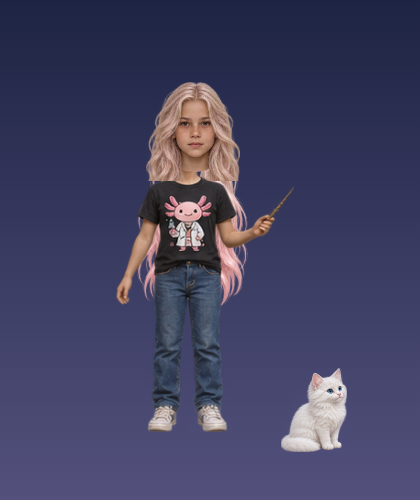
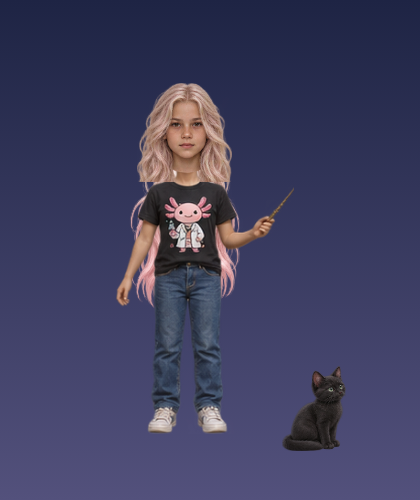
Align custom wizard heads to necklines and publish the new homepage cover

diff --git a/tests/wizard-custom.test.js b/tests/wizard-custom.test.js
@@ -1,3 +1,4 @@
+import{CUSTOM_WIZARD_NECKS}from'../src/wizard-custom-necks.js';
 import test from 'node:test';
 import assert from 'node:assert/strict';
 import{CUSTOM_HAIRS,CUSTOM_OUTFITS,validateCustomWizard,loadCustomWizard,saveCustomWizard,drawCustomWizard}from'../src/wizard-custom.js';
@@ -9,8 +10,8 @@ test('custom kid and adult appearances save separately, reject invalid options, 
  const map=new Map(),storage={getItem:k=>map.get(k),setItem:(k,v)=>map.set(k,v)};const a={age:'kid',hair:12,outfit:3},b={age:'adult',hair:1,outfit:5};saveCustomWizard(a,0,storage);saveCustomWizard(b,1,storage);assert.deepEqual(loadCustomWizard(0,storage),a);assert.deepEqual(loadCustomWizard(1,storage),b);assert.deepEqual(validateCustomWizard({age:'bad',hair:30,outfit:-1}),{age:'adult',hair:9,outfit:0});map.set('sidequest.wizard.custom.0','bad json');assert.equal(loadCustomWizard(0,storage).age,'adult');assert.equal(saveStormWizard('custom',storage),'custom');assert.equal(loadStormWizard(storage),'custom');assert.equal(stormWizard('custom').name,'Your custom wizard');const m=createWizardMatch({wizard:'custom',customWizard:a,rivalCustomWizard:b});a.hair=0;assert.equal(m.players[0].customWizard.hair,12);assert.equal(m.players[1].customWizard.age,'adult');
 });
 test('all 256 age, hairstyle and outfit combinations draw their real matched portrait and clothing assets',t=>{
- const old=globalThis.Image;t.after(()=>globalThis.Image=old);globalThis.Image=class{complete=true;naturalWidth=1260;naturalHeight=1260;};const draws=[],c=new Proxy({drawImage:(...args)=>draws.push(args)},{get:(o,k)=>o[k]||(()=>{}),set:(o,k,v)=>(o[k]=v,true)});assert.equal(CUSTOM_HAIRS.length,16);assert.equal(CUSTOM_OUTFITS.length,8);
- for(const age of['kid','adult'])for(let hair=0;hair<16;hair++)for(let outfit=0;outfit<8;outfit++){draws.length=0;assert.equal(drawCustomWizard(c,{age,hair,outfit},200,400,1),true);const body=draws.find(a=>a[0].src.endsWith('outfits.png')),head=draws.at(-1),bound=CUSTOM_WIZARD_BOUNDS.outfits[outfit+(age==='kid'?8:0)];assert.equal(body[1],bound.x);assert.equal(body[2],bound.y);assert.ok(head[0].src.endsWith(age+'-heads.png'));assert.ok(draws.every(a=>a.slice(1).every(Number.isFinite)));assert.ok(head[6]<body[6]+20);}
+ const old=globalThis.Image;t.after(()=>globalThis.Image=old);globalThis.Image=class{complete=true;set src(value){this.url=value;const kind=value.match(/wizard-custom-(.+)\.png/)[1];[this.naturalWidth,this.naturalHeight]=({'outfits':[1247,1261],'adult-heads':[1244,1264],'kid-heads':[1261,1247],'hair-back':[1536,1024]})[kind];}get src(){return this.url;}};const draws=[],c=new Proxy({drawImage:(...args)=>draws.push(args)},{get:(o,k)=>o[k]||(()=>{}),set:(o,k,v)=>(o[k]=v,true)});assert.equal(CUSTOM_HAIRS.length,16);assert.equal(CUSTOM_OUTFITS.length,8);
+ for(const age of['kid','adult'])for(let hair=0;hair<16;hair++)for(let outfit=0;outfit<8;outfit++){draws.length=0;assert.equal(drawCustomWizard(c,{age,hair,outfit},200,400,1),true);const body=draws.find(a=>a[0].src.endsWith('outfits.png')),head=draws.at(-1),bound=CUSTOM_WIZARD_BOUNDS.outfits[outfit+(age==='kid'?8:0)];assert.equal(body[1],bound.x);assert.equal(body[2],bound.y);assert.ok(head[0].src.endsWith(age+'-heads.png'));assert.ok(draws.every(a=>a.slice(1).every(Number.isFinite)));assert.ok(head[6]<body[6]+20);const neck=CUSTOM_WIZARD_NECKS.outfits[outfit+(age==='kid'?8:0)],faceNeck=CUSTOM_WIZARD_NECKS[age+'-heads'][hair];const bodyX=body[5]+(neck.x-body[1])*body[7]/body[3],headX=head[5]+(faceNeck.x-head[1])*head[7]/head[3],bodyY=body[6]+(neck.y+3-body[2])*body[8]/body[4],headY=head[6]+(faceNeck.y-head[2])*head[8]/head[4];assert.ok(Math.abs(headX-bodyX)<1e-8,age+' hair '+hair+' outfit '+outfit+' neck center');assert.ok(Math.abs(headY-bodyY)<1e-8,age+' hair '+hair+' outfit '+outfit+' neck height');}
 });
 test('editing during a paused round preserves the match and resumes only after visible 3 2 1',t=>{
  const names=['document','window','requestAnimationFrame','cancelAnimationFrame','localStorage'],old=Object.fromEntries(names.map(k=>[k,globalThis[k]]));t.after(()=>{engine.destroy();Object.assign(globalThis,old);});const countdowns=[];const ctx=new Proxy({createLinearGradient:()=>({addColorStop(){}}),fillText:v=>{if(['3','2','1'].includes(v))countdowns.push(v);}},{get:(o,k)=>o[k]||(()=>{}),set:(o,k,v)=>(o[k]=v,true)});

diff --git a/src/wizard-custom.js b/src/wizard-custom.js
@@ -1,3 +1,4 @@
+import {CUSTOM_WIZARD_NECKS} from './wizard-custom-necks.js';
 import {CUSTOM_WIZARD_BOUNDS} from './wizard-custom-bounds.js';
 export const CUSTOM_HAIRS=['Chestnut sweep','Blonde quiff','Brown fringe','Textured quiff','Blonde side part','Dark side sweep','Black crop','Tall quiff','Ash brown sweep','Long black waves','Side braid','Black bob','Long pink waves','Auburn waves','Silver hair','Dark curls'];
 export const CUSTOM_OUTFITS=['Silver dragon gown','Butterfly sequin gown','Emerald leaf gown','Blue celestial gown','Ivory forest gown','Chemistry shirt & jeans','Axolotl scientist shirt','Frog scientist shirt'];
@@ -8,11 +9,14 @@ const atlases=new Map();
 export function customWizardAtlas(kind){if(typeof Image==='undefined')return null;if(!atlases.has(kind)){const image=new Image();image.src=new URL('../assets/wizard-custom-'+kind+'.png',import.meta.url).href;atlases.set(kind,image);}return atlases.get(kind);}
 export function drawCustomWizard(c,value,x,baseline,time=0,{height=190,reduced=false}={}){
  const look=validateCustomWizard(value),body=customWizardAtlas('outfits'),head=customWizardAtlas(look.age+'-heads');if(!body?.complete||!body.naturalWidth||!head?.complete||!head.naturalWidth)return false;
- const index=look.outfit+(look.age==='kid'?8:0),bw=body.naturalWidth/4,bh=body.naturalHeight/4,hw=head.naturalWidth/4,hh=head.naturalHeight/4,bodyHeight=height*(look.age==='kid'?.78:.84),bodyWidth=bodyHeight*bw/bh,headHeight=height*(look.age==='kid'?.27:.19),bodyBounds=CUSTOM_WIZARD_BOUNDS.outfits[index],neck=baseline-bodyHeight+(bodyBounds.y-Math.floor(index/4)*bh)/bh*bodyHeight;
+ const index=look.outfit+(look.age==='kid'?8:0),bw=body.naturalWidth/4,bh=body.naturalHeight/4,hw=head.naturalWidth/4,hh=head.naturalHeight/4,bodyHeight=height*(look.age==='kid'?.78:.84),bodyScale=bodyHeight/bh,bodyWidth=bw*bodyScale,headHeight=height*(look.age==='kid'?.27:.19),headScale=headHeight/hh;
+ const bodyNeck=CUSTOM_WIZARD_NECKS.outfits[index],headNeck=CUSTOM_WIZARD_NECKS[look.age+'-heads'][look.hair];
+ // Attach the actual portrait neck to the actual outfit neck, including tile offsets.
+ const neckX=-bodyWidth/2+(bodyNeck.x-index%4*bw)*bodyScale,neckY=-bodyHeight+(bodyNeck.y+3-Math.floor(index/4)*bh)*bodyScale;
+ const headX=neckX-(headNeck.x-look.hair%4*hw)*headScale,headY=neckY-(headNeck.y-Math.floor(look.hair/4)*hh)*headScale;
  c.save();c.translate(x,baseline+(reduced?0:Math.sin(time*2)*1.5));
- const backIndex=({9:0,10:1,12:2,13:3,14:4,15:5})[look.hair],back=backIndex===undefined?null:customWizardAtlas('hair-back');if(back?.complete&&back.naturalWidth){const sw=back.naturalWidth/3,sh=back.naturalHeight/2,w=height*.35,h=height*(look.hair===15?.39:.62);c.drawImage(back,backIndex%3*sw,Math.floor(backIndex/3)*sh,sw,sh,-w/2,neck-baseline-headHeight*.85,w,h);}
- const b=CUSTOM_WIZARD_BOUNDS.outfits[index];c.drawImage(body,b.x,b.y,b.w,b.h,-bodyWidth/2+(b.x-index%4*bw)/bw*bodyWidth,-bodyHeight+(b.y-Math.floor(index/4)*bh)/bh*bodyHeight,b.w/bw*bodyWidth,b.h/bh*bodyHeight);
- // Face and neck share the body's center and move together with the outfit.
- const face=CUSTOM_WIZARD_BOUNDS[look.age+'-heads'][look.hair];c.drawImage(head,face.x,face.y,face.w,face.h,-headHeight/2+(face.x-look.hair%4*hw)/hw*headHeight,neck-baseline-headHeight*.85+(face.y-Math.floor(look.hair/4)*hh)/hh*headHeight,face.w/hw*headHeight,face.h/hh*headHeight);
+ const backIndex=({9:0,10:1,12:2,13:3,14:4,15:5})[look.hair],back=backIndex===undefined?null:customWizardAtlas('hair-back');if(back?.complete&&back.naturalWidth){const sw=back.naturalWidth/3,sh=back.naturalHeight/2,w=height*.35,h=height*(look.hair===15?.39:.62);c.drawImage(back,backIndex%3*sw,Math.floor(backIndex/3)*sh,sw,sh,neckX-w/2,headY,w,h);}
+ const b=CUSTOM_WIZARD_BOUNDS.outfits[index];c.drawImage(body,b.x,b.y,b.w,b.h,-bodyWidth/2+(b.x-index%4*bw)*bodyScale,-bodyHeight+(b.y-Math.floor(index/4)*bh)*bodyScale,b.w*bodyScale,b.h*bodyScale);
+ const face=CUSTOM_WIZARD_BOUNDS[look.age+'-heads'][look.hair];c.drawImage(head,face.x,face.y,face.w,face.h,headX+(face.x-look.hair%4*hw)*headScale,headY+(face.y-Math.floor(look.hair/4)*hh)*headScale,face.w*headScale,face.h*headScale);
  c.restore();return true;
 }

diff --git a/previews/storm-stack.html b/previews/storm-stack.html
@@ -1,2 +1,2 @@
 <!doctype html>
-<html lang="en"><head><meta charset="utf-8"><meta name="viewport" content="width=device-width,initial-scale=1"><title>Wizard Tetris · Animated cover</title><style>body{margin:0;background:#eeebf5;color:#343956;font:16px system-ui}main{max-width:1000px;margin:30px auto;padding:20px}canvas{width:100%;height:auto;border-radius:24px;box-shadow:0 16px 50px #4b367633}h1{margin:20px 0 8px}p{line-height:1.6}a{color:#66508e}</style></head><body><main><canvas id="cover" width="960" height="650" aria-label="Animated Wizard Tetris cover: small wizards guide two island towers with golden magic"></canvas><h1>Wobbly towers. Wild magic.</h1><p>Pick your backdrop and a sidekick, then duel the computer or a friend on floating islands. Blocks rock, overhangs topple, and removing supports can bring down the tower. Your small wizard guides every piece in golden magic. Cross the rainbow diamond line and choose one of three Helping or Attack powers. Use X/C/V, click a bubble, or tap your phone choices. Reach the higher gold finish strip to win. Use arrow keys against the computer. On a phone, swipe sideways to move, swipe down to fall faster, and tap to rotate.</p><a href="../">Play Wizard Tetris ↗</a> · <a href="wizard-powers.html">See the six power illustrations</a> · <a href="wizard-tetris-animated.gif">View the animated image</a></main><script type="module">import{animateStormCover}from'../src/storm-cover.js';animateStormCover(document.querySelector('canvas'));</script></body></html>
+<html lang="en"><head><meta charset="utf-8"><meta name="viewport" content="width=device-width,initial-scale=1"><title>Wizard Tetris · Animated cover</title><style>body{margin:0;background:#eeebf5;color:#343956;font:16px system-ui}main{max-width:1000px;margin:30px auto;padding:20px}canvas{width:100%;height:auto;border-radius:24px;box-shadow:0 16px 50px #4b367633}h1{margin:20px 0 8px}p{line-height:1.6}a{color:#66508e}</style></head><body><main><canvas id="cover" width="960" height="540" aria-label="Animated Wizard Tetris cover: small wizards guide two island towers with golden magic"></canvas><h1>Wobbly towers. Wild magic.</h1><p>Pick your backdrop and a sidekick, then duel the computer or a friend on floating islands. Blocks rock, overhangs topple, and removing supports can bring down the tower. Your small wizard guides every piece in golden magic. Cross the rainbow diamond line and choose one of three Helping or Attack powers. Use X/C/V, click a bubble, or tap your phone choices. Reach the higher gold finish strip to win. Use arrow keys against the computer. On a phone, swipe sideways to move, swipe down to fall faster, and tap to rotate.</p><a href="../">Play Wizard Tetris ↗</a> · <a href="wizard-powers.html">See the six power illustrations</a> · <a href="wizard-tetris-animated.gif">View the animated image</a></main><script type="module">import{animateStormCover}from'../src/storm-cover.js';animateStormCover(document.querySelector('canvas'));</script></body></html>

diff --git a/src/storm-cover.js b/src/storm-cover.js
@@ -5,8 +5,10 @@ import {drawWizardIsland,drawWizardTether,wizardArenaField} from './wizard-arena
 import {loadStormWizard,drawStormWizard} from './storm-wizards.js';
 import {drawWizardBackground,drawWizardBlock,loadWizardSetting} from './wizard-themes.js';
 import {drawWizardPowerIcon} from './wizard-powers.js';
+let coverArtwork;
+export function wizardCoverArtwork(){if(typeof Image==='undefined')return null;if(!coverArtwork){coverArtwork=new Image();coverArtwork.src=new URL('../assets/wizard-tetris-cover.png',import.meta.url).href;}return coverArtwork;}
 export function drawStormCoverFrame(canvas,time=0){
- const c=canvas.getContext('2d');if(!c)return false;c.save();c.scale(canvas.width/960,canvas.height/650);
+ const c=canvas.getContext('2d');if(!c)return false;const cover=wizardCoverArtwork();if(cover?.complete&&cover.naturalWidth){c.save();c.drawImage(cover,0,0,canvas.width,canvas.height);for(const [i,[px,py]]of [[.14,.17],[.22,.29],[.48,.035],[.73,.21],[.82,.33]].entries()){c.globalAlpha=Math.max(0,Math.sin(time*2+i))*.65;c.fillStyle='#fff1a5';c.beginPath();c.arc(px*canvas.width,py*canvas.height,1.4+Math.sin(time*2+i)*.6,0,Math.PI*2);c.fill();}c.restore();return true;}c.save();c.scale(canvas.width/960,canvas.height/650);
  const background=Number(loadWizardSetting('background',0))||0,match=createWizardMatch({random:()=>.42,background,wizard:loadStormWizard(),customWizard:loadCustomWizard(0),rivalCustomWizard:loadCustomWizard(1),sidekick:loadWizardSidekick(0),rivalSidekick:loadWizardSidekick(1)});
  drawWizardBackground(c,background,time,false);
  const shade=c.createLinearGradient(0,0,0,650);shade.addColorStop(0,'#0a163c99');shade.addColorStop(.5,'#0b14300a');shade.addColorStop(1,'#131329cc');c.fillStyle=shade;c.fillRect(0,0,960,650);
@@ -24,7 +26,7 @@ export function drawStormCoverFrame(canvas,time=0){
  c.fillStyle='#13213be8';c.beginPath();c.roundRect(210,585,540,49,24);c.fill();const powers=['island','lightning','ice'];for(let i=0;i<3;i++)drawWizardPowerIcon(c,powers[i],228+i*165,590,38);c.font='700 13px system-ui';c.fillStyle='#fff1cb';c.fillText('BUILD',311,614);c.fillText('CAST',476,614);c.fillText('SABOTAGE',641,614);c.restore();return true;
 }
 export function animateStormCover(canvas){
- canvas.width=960;canvas.height=650;canvas.parentElement?.classList.add('storm-art');const reduced=globalThis.matchMedia?.('(prefers-reduced-motion: reduce)').matches;let start;
+ canvas.width=960;canvas.height=540;canvas.parentElement?.classList.add('storm-art');const reduced=globalThis.matchMedia?.('(prefers-reduced-motion: reduce)').matches;let start;
  function frame(now){if(!canvas.isConnected)return;start??=now;if(!globalThis.document?.hidden)drawStormCoverFrame(canvas,reduced?0:(now-start)/1000);requestAnimationFrame(frame);}
  drawStormCoverFrame(canvas,0);requestAnimationFrame(frame);
 }

diff --git a/styles.css b/styles.css
@@ -200,7 +200,7 @@ nav .shop-shortcut{padding:12px 18px;min-height:44px;display:inline-flex;align-i
 @media(max-width:380px){.jump-pet-choice{grid-template-columns:1fr;gap:5px}.jump-pet-choice>span{text-align:center}}
 
 /* Storm Stack: floating-island cover and spell controls. */
-.game-art.storm-art{height:auto;aspect-ratio:3/2;background:#c9c8ec}.storm-art canvas{display:block}.storm-modes{display:flex;gap:8px;flex-wrap:wrap;justify-content:center;margin-bottom:14px}.storm-modes button[aria-pressed="true"]{background:#67538b;color:#fff4d5;border-color:#67538b;box-shadow:0 3px 12px #67538b33}#storm-controls{background:linear-gradient(135deg,#e6def4,#dceef0);border:1px solid #c7b9df}#storm-controls .storm-buttons button:last-child{background:#6b558d;color:#fff0b9;border-color:#6b558d}#storm-controls button:disabled{opacity:.5}
+.game-art.storm-art{height:auto;aspect-ratio:16/9;background:#c9c8ec}.storm-art canvas{display:block}.storm-modes{display:flex;gap:8px;flex-wrap:wrap;justify-content:center;margin-bottom:14px}.storm-modes button[aria-pressed="true"]{background:#67538b;color:#fff4d5;border-color:#67538b;box-shadow:0 3px 12px #67538b33}#storm-controls{background:linear-gradient(135deg,#e6def4,#dceef0);border:1px solid #c7b9df}#storm-controls .storm-buttons button:last-child{background:#6b558d;color:#fff0b9;border-color:#6b558d}#storm-controls button:disabled{opacity:.5}
 
 .storm-wizards{margin:0 0 18px;padding:0;border:0;display:grid;grid-template-columns:repeat(6,minmax(0,1fr));gap:9px}.storm-wizards legend{font-size:15px;margin-bottom:12px;color:#443961}.storm-wizard-choice{padding:6px;border:2px solid #c9bedc;background:#f7f4fc;border-radius:14px;color:#433c60;font:600 12px system-ui;display:grid;gap:6px;align-content:start;cursor:pointer}.storm-wizard-picture{display:block;aspect-ratio:1;background-image:url('assets/storm-wizards.png');background-size:300% 200%;background-repeat:no-repeat;background-color:#dcdce7;border-radius:8px}.storm-wizard-choice[aria-pressed="true"]{border-color:#7855a4;background:#e6dcf3;box-shadow:0 0 0 2px #cdb3e6}.storm-wizard-choice:focus-visible{outline:3px solid #bd7945;outline-offset:3px}@media(max-width:650px){.storm-wizards{grid-template-columns:repeat(3,minmax(0,1fr))}}
 

diff --git a/src/wizard-custom-necks.js b/src/wizard-custom-necks.js
@@ -1,0 +1,2 @@
+// Neck attachment landmarks in the source atlases, independent of hair and wand bounds.
+export const CUSTOM_WIZARD_NECKS={"adult-heads":[{"width":39,"x":171,"y":299},{"width":35,"x":479,"y":299},{"width":31,"x":773,"y":299},{"width":38,"x":1081.5,"y":300},{"width":43,"x":169,"y":615},{"width":28,"x":481.5,"y":616},{"width":41,"x":774,"y":614},{"width":38,"x":1085.5,"y":614},{"width":39,"x":171,"y":925},{"width":47,"x":478,"y":932},{"width":40,"x":777.5,"y":926},{"width":26,"x":1089.5,"y":931},{"width":27,"x":148.55555555555554,"y":1240},{"width":50,"x":470.57999999999998,"y":1242},{"width":41,"x":777,"y":1240},{"width":40,"x":1087.5,"y":1240}],"kid-heads":[{"width":31,"x":164,"y":292},{"width":35,"x":481,"y":292},{"width":41,"x":789,"y":292},{"width":39,"x":1107,"y":292},{"width":42,"x":163.5,"y":603},{"width":42,"x":484.5,"y":603},{"width":26,"x":794.5,"y":604},{"width":36,"x":1110.5,"y":605},{"width":32,"x":164.5,"y":911},{"width":38,"x":481.5,"y":908},{"width":43,"x":789,"y":906},{"width":36,"x":1109.5,"y":908},{"width":41,"x":161,"y":1213},{"width":30,"x":470.56666666666666,"y":1214},{"width":26,"x":791.5,"y":1212},{"width":42,"x":1112.5,"y":1214}],"outfits":[{"width":19,"x":158,"y":9},{"width":17,"x":462,"y":9},{"width":16,"x":768.5,"y":9},{"width":17,"x":1076,"y":9},{"width":19,"x":157,"y":322},{"width":19,"x":463,"y":322},{"width":17,"x":770,"y":322},{"width":18,"x":1076.5,"y":322},{"width":20,"x":159.5,"y":656},{"width":19,"x":463,"y":656},{"width":19,"x":771,"y":656},{"width":19,"x":1076,"y":656},{"width":20,"x":158.5,"y":954},{"width":19,"x":463,"y":951},{"width":21,"x":771,"y":954},{"width":21,"x":1077,"y":954}]};

diff --git a/tests/wizard-cover.test.js b/tests/wizard-cover.test.js
@@ -1,0 +1,6 @@
+import test from 'node:test';
+import assert from 'node:assert/strict';
+import{drawStormCoverFrame}from'../src/storm-cover.js';
+test('the Wizard Tetris homepage displays the generated cover artwork in the cover canvas',t=>{
+ const previous=globalThis.Image;t.after(()=>globalThis.Image=previous);globalThis.Image=class{complete=true;naturalWidth=1672;naturalHeight=941;};const draws=[],ctx=new Proxy({drawImage:(...args)=>draws.push(args)},{get:(o,k)=>o[k]||(()=>{}),set:(o,k,v)=>(o[k]=v,true)});assert.equal(drawStormCoverFrame({width:960,height:540,getContext:()=>ctx},0),true);assert.equal(draws.length,1);assert.ok(draws[0][0].src.endsWith('/assets/wizard-tetris-cover.png'));assert.deepEqual(draws[0].slice(1),[0,0,960,540]);
+});
